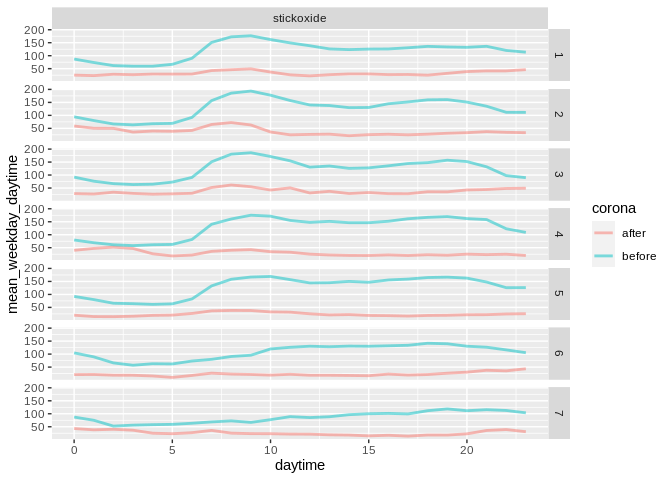
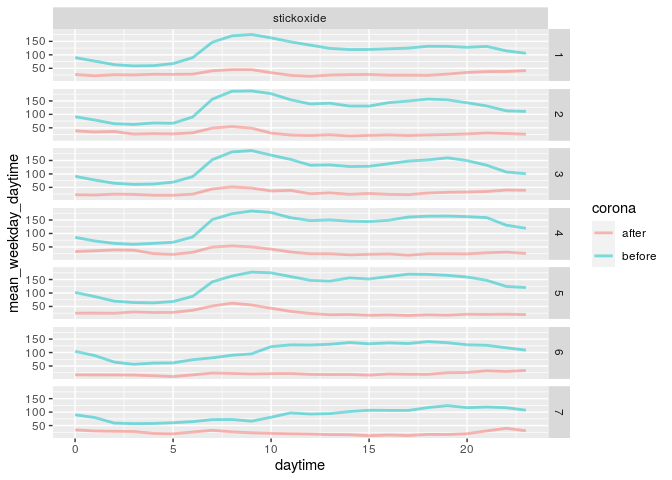
No code change, only data update

diff --git a/main.md b/main.md
@@ -1,7 +1,7 @@
 Air Pollution in Berlin during Corona
 ================
 Maximilian Nölscher
-2020-04-13
+2020-05-11
 
 ``` r
 library(sf)
@@ -195,7 +195,7 @@ Show the dataframe
 station_data
 ```
 
-    ## # A tibble: 142,292 x 11
+    ## # A tibble: 142,941 x 11
     ##    date                 year month  week   day weekday daytime yearday
     ##    <dttm>              <dbl> <dbl> <dbl> <int> <chr>     <int>   <dbl>
     ##  1 2004-01-01 01:00:00  2004     1     1     1 Thursd…       1       1
@@ -208,7 +208,7 @@ station_data
     ##  8 2004-01-01 08:00:00  2004     1     1     1 Thursd…       8       1
     ##  9 2004-01-01 09:00:00  2004     1     1     1 Thursd…       9       1
     ## 10 2004-01-01 10:00:00  2004     1     1     1 Thursd…      10       1
-    ## # … with 142,282 more rows, and 3 more variables: stickstoffmonoxid <dbl>,
+    ## # … with 142,931 more rows, and 3 more variables: stickstoffmonoxid <dbl>,
     ## #   stickstoffdioxid <dbl>, stickoxide <dbl>
 
 ``` r
@@ -458,14 +458,15 @@ station_data %>%
 First day of contact restrictions, bar closings etc. in Berlin
 
 ``` r
-date_corona_restrictions <- ymd_hms("2020-03-21 00:00:00")
+date_corona_restrictions_start <- ymd_hms("2020-03-21 00:00:00")
+date_corona_restrictions_end1 <- ymd_hms("2020-04-27 00:00:00")
 ```
 
 Add categorical column for corona status
 
 ``` r
 station_data <- station_data %>% 
-  mutate(corona = if_else(date >= date_corona_restrictions, "after", "before"))
+  mutate(corona = if_else(date >= date_corona_restrictions_start & date <= date_corona_restrictions_end1, "after", "before"))
 ```
 
 Determine calender weeks that are affected by restricions
@@ -554,7 +555,7 @@ Compare this years week 12 and 13 to those from the past
 ``` r
 station_data %>%
   select(-stickoxide) %>%
-  filter(week %in% c(12, 13)) %>%
+  filter(week %in% calender_weeks_since_corona) %>%
   pivot_longer(cols = one_of(variables)) %>%
   group_by(name, year) %>%
   summarise(mean_year_kw1213 = mean(value, na.rm = TRUE)) %>%
